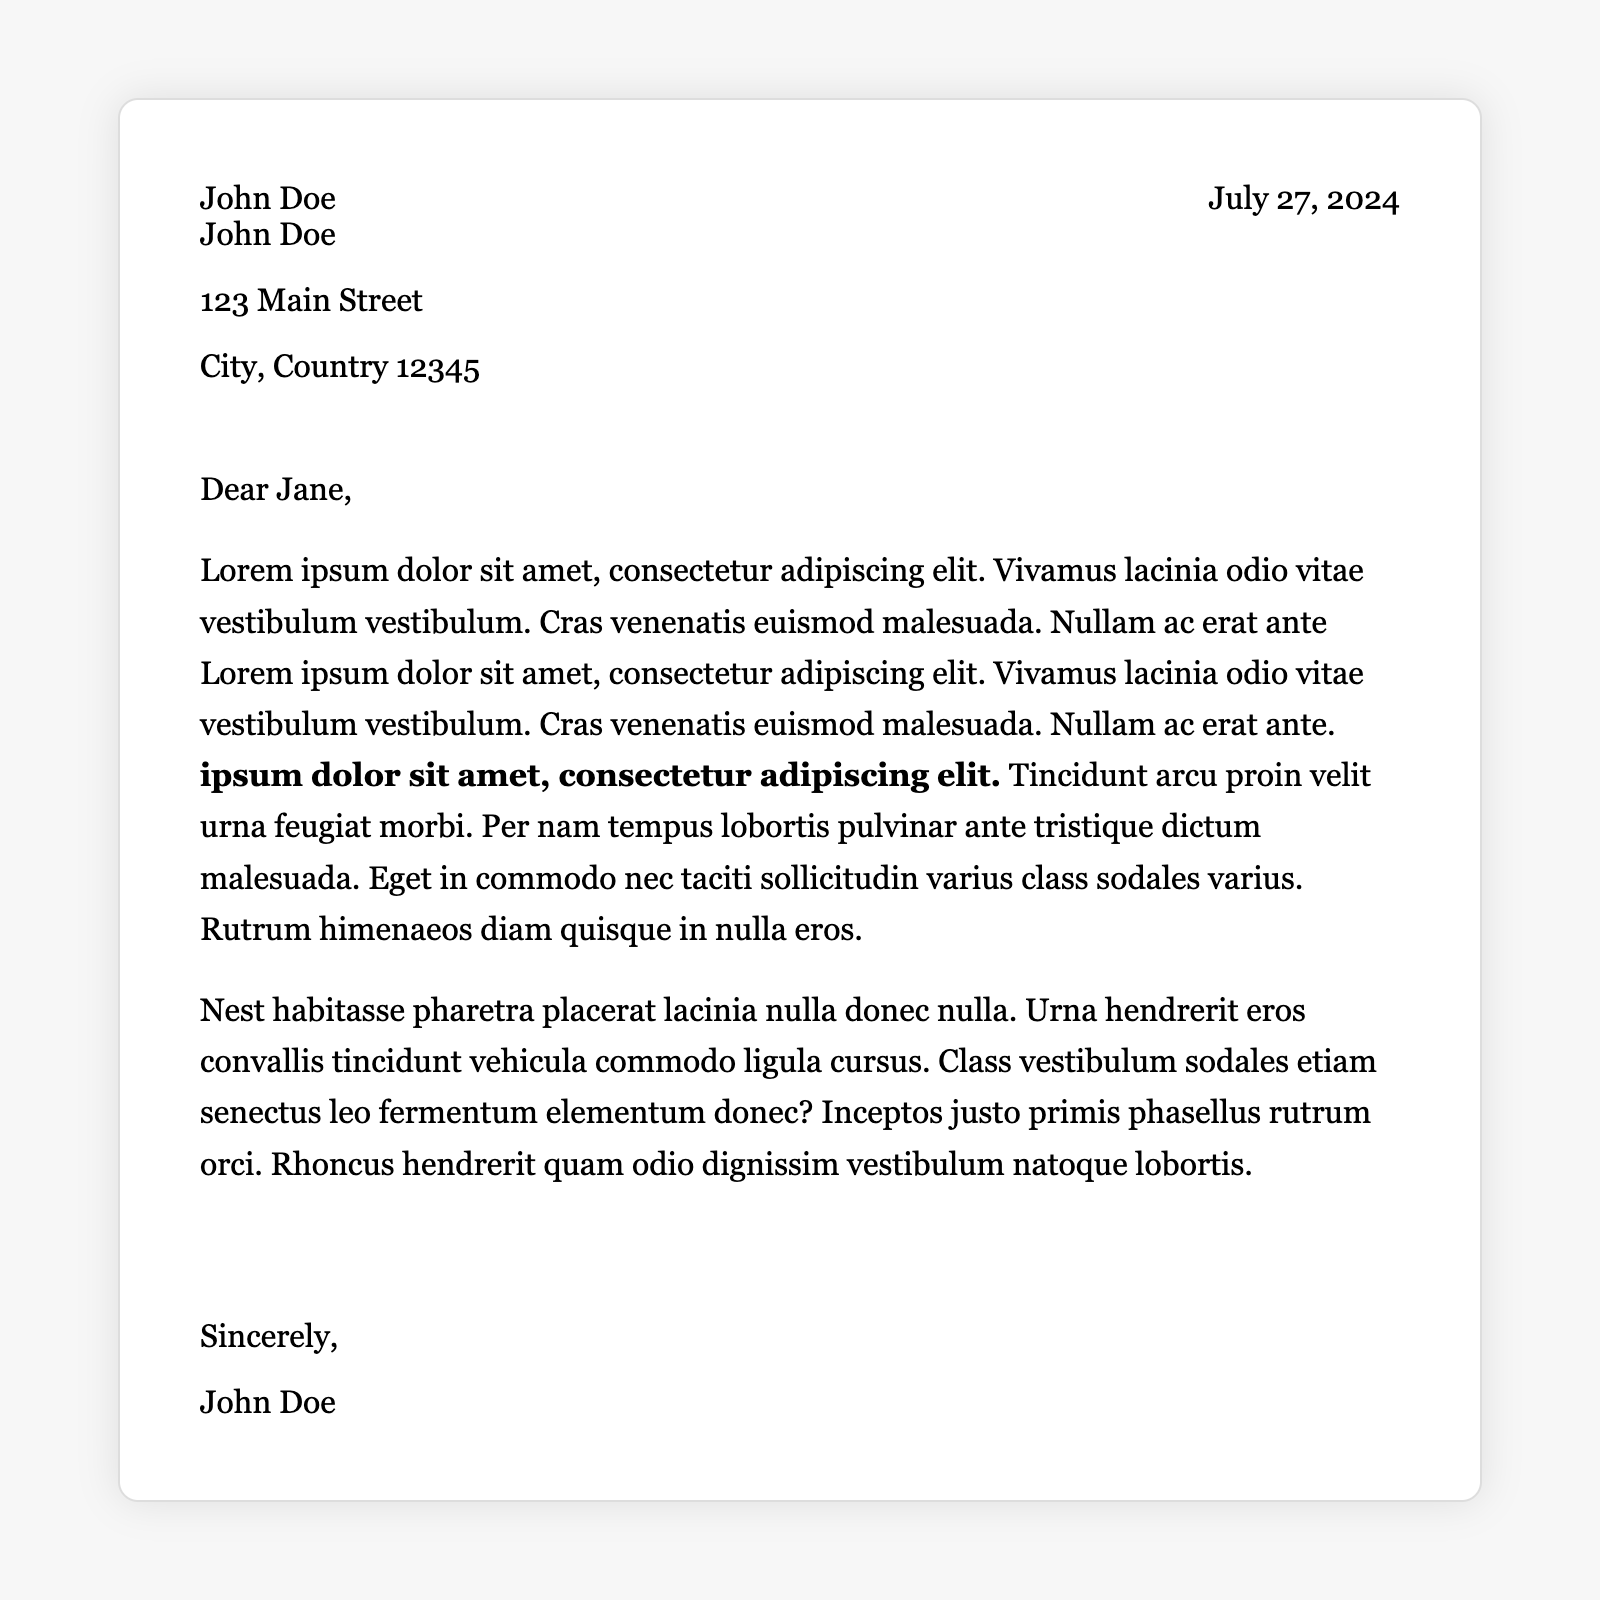
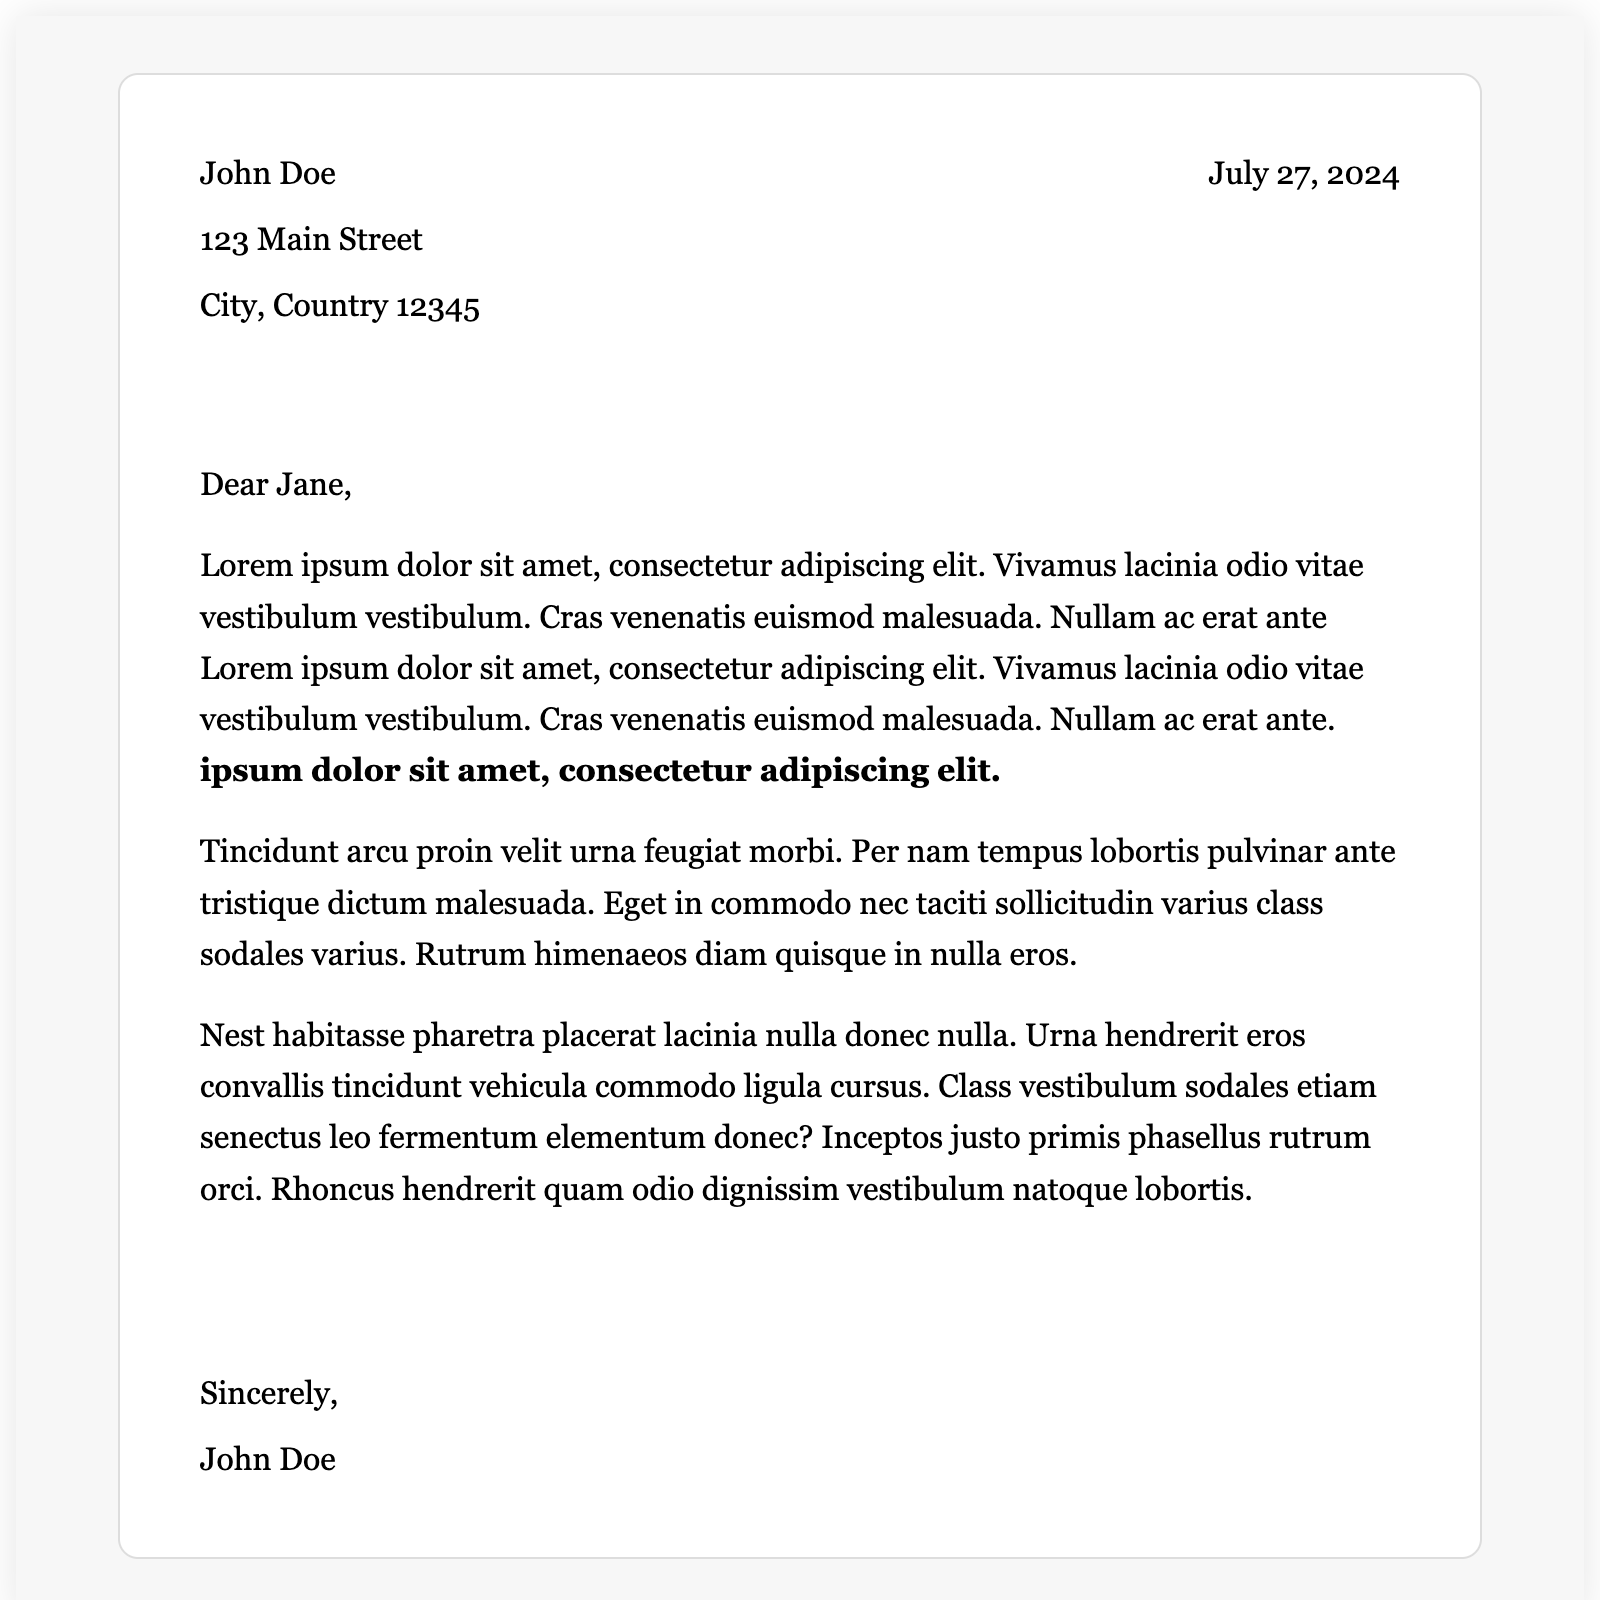
V0.89

diff --git a/init.js b/init.js
@@ -7,37 +7,54 @@ const marked = require('marked');
 
 const templatesDir = path.join(__dirname, 'templates');
 
+// async function generateThumbnail(htmlFilePath, outputPath) {
+//     const browser = await puppeteer.launch();
+//     const page = await browser.newPage();
+//     await page.setViewport({width: 900, height: 900, deviceScaleFactor: 0});
+    
+//     // Read the HTML file
+//     const htmlContent = await fs.readFile(htmlFilePath, 'utf-8');
+    
+//     // Inject the Marked library and our custom script
+//     const modifiedHtmlContent = htmlContent.replace('</body>', `
+//         <script src="https://cdn.jsdelivr.net/npm/marked/marked.min.js"></script>
+//         <script>
+//             document.addEventListener('DOMContentLoaded', function() {
+//                 const inputFields = document.querySelectorAll('.input-field');
+//                 inputFields.forEach(field => {
+//                     const markdown = field.innerHTML.trim();
+//                     field.innerHTML = marked.parse(markdown);
+//                 });
+//             });
+//         </script>
+//     </body>`);
+
+//     // Set the content and wait for it to load
+//     await page.setContent(modifiedHtmlContent, { waitUntil: 'networkidle0' });
+    
+//     await page.screenshot({ path: outputPath, fullPage: false });
+//     await browser.close();
+
+//     // Resize the image to ensure it's exactly 300x300
+//     await sharp(outputPath)
+//         .resize(300, 700, { fit: 'cover' })
+//         .toFile(outputPath.replace('.png', '_resized.png'));
+
+//     // Replace the original screenshot with the resized one
+//     await fs.rename(outputPath.replace('.png', '_resized.png'), outputPath);
+// }
+
 async function generateThumbnail(htmlFilePath, outputPath) {
     const browser = await puppeteer.launch();
     const page = await browser.newPage();
     await page.setViewport({width: 800, height: 800, deviceScaleFactor: 0});
-    
-    // Read the HTML file
-    const htmlContent = await fs.readFile(htmlFilePath, 'utf-8');
-    
-    // Inject the Marked library and our custom script
-    const modifiedHtmlContent = htmlContent.replace('</body>', `
-        <script src="https://cdn.jsdelivr.net/npm/marked/marked.min.js"></script>
-        <script>
-            document.addEventListener('DOMContentLoaded', function() {
-                const inputFields = document.querySelectorAll('.input-field');
-                inputFields.forEach(field => {
-                    const markdown = field.innerHTML.trim();
-                    field.innerHTML = marked.parse(markdown);
-                });
-            });
-        </script>
-    </body>`);
-
-    // Set the content and wait for it to load
-    await page.setContent(modifiedHtmlContent, { waitUntil: 'networkidle0' });
-    
+    await page.goto(`file://${htmlFilePath}`);
     await page.screenshot({ path: outputPath, fullPage: false });
     await browser.close();
 
-    // Resize the image to ensure it's exactly 300x300
+    // Resize the image to ensure it's exactly 700x300
     await sharp(outputPath)
-        .resize(300, 300, { fit: 'cover' })
+        // .resize(300, 700, { fit: 'cover' })
         .toFile(outputPath.replace('.png', '_resized.png'));
 
     // Replace the original screenshot with the resized one
@@ -51,7 +68,8 @@ async function extractTemplateMetadata(htmlFilePath) {
     console.log(metaTag.attr('template-description'));
     return {
         name: metaTag.attr('template-name'),
-        tag: metaTag.attr('template-tag'),
+        rawTag: metaTag.attr('template-tag'),
+        author: metaTag.attr('template-author'),
         description: metaTag.attr('template-description')
     };
 }
@@ -78,12 +96,11 @@ async function generateTemplatesJson() {
                 console.log(`Thumbnail generated for ${file}`);
             }
 
-            const tags = metadata.tag.split(',').map(tag => tag.trim());
+            const tags = metadata.rawTag.split(',').map(tag => tag.trim());
             tags.forEach(tag => allTags.add(tag));
-
+            console.log(metadata);
             templates.push({
-                name: metadata.name,
-                description: metadata.description,
+                ...metadata,
                 tags: tags,
                 thumbnailUrl: `templates/${path.basename(file, '.html')}.png`
             });

diff --git a/templates/Time New Roam Resume.html b/templates/Time New Roam Resume.html
@@ -5,9 +5,11 @@
         <meta name="viewport" content="width=device-width, initial-scale=1.0" />
         <meta name="template-meta" 
             template-name="Time New Roam Resume" 
-            template-tag="resume" 
-            template-description="A professional resume template with a clean design."
+            template-tag="resume,professional,clean" 
+            template-description="A clean and professional resume template inspired by classic designs."
+            template-author="Styled-md"
         />
+        <meta name="template-instruction" content="Use '#' for your name, '##' for section headers, '###' for job titles and dates. Use '- ' for bullet points in experience and skills sections. Use '**bold**' for emphasis." />
         <title>Professional Resume</title>
         <link rel="stylesheet" href="Time New Roam Resume.css" />
         <script src="https://cdn.jsdelivr.net/npm/marked/marked.min.js"></script>

diff --git a/templates/Stylized Invitation I.html b/templates/Stylized Invitation I.html
@@ -7,9 +7,9 @@
             template-name="Stylized Invitation I"
             template-tag="invitation, stylized"
             template-description="An invitation template with a stylized design."
-            template-author="TemplateMarket Team"
+            template-author="Styled-md"
         />
-        <meta name="template-instruction" content="Use '#' for the main title, '##' for section headers, and '###' for subtitles. Regular paragraphs for content. Use '**bold**' for emphasis." />
+        <meta name="template-instruction" content= "Use '#' for the main title, '##' for section headers, and '###' for subtitles. Regular paragraphs for content. Use '**bold**' for emphasis." />
         <title>Formal Invitation</title>
         <link rel="stylesheet" href="Stylized Invitation I.css" />
         <script src="https://cdn.jsdelivr.net/npm/marked/marked.min.js"></script>

diff --git a/templates/Concise Letter I.html b/templates/Concise Letter I.html
@@ -5,9 +5,11 @@
         <meta name="viewport" content="width=device-width, initial-scale=1.0" />
         <meta name="template-meta" 
             template-name="Concise Letter I" 
-            template-tag="letter" 
-            template-description="A concise letter template."
+            template-tag="letter,formal,concise" 
+            template-description="A clean and concise letter template suitable for formal correspondence."
+            template-author="Styled-md"
         />
+        <meta name="template-instruction" content="Use regular paragraphs for sender's address and date. Main content should be in regular paragraphs. Use '**bold**' for emphasis." />
         <title>Beautiful Letter</title>
         <link rel="stylesheet" href="Concise Letter I.css" />
         <script src="https://cdn.jsdelivr.net/npm/marked/marked.min.js"></script>

diff --git a/templates/Concise Letter II.html b/templates/Concise Letter II.html
@@ -3,7 +3,11 @@
 <head>
     <meta charset="UTF-8">
     <meta name="viewport" content="width=device-width, initial-scale=1.0">
-    <meta name="template-meta" template-name="Concise Letter I" template-tag="letter,concise" description="A clean and concise letter template">
+    <meta name="template-meta" 
+        template-name="Concise Letter I" 
+        template-tag="letter,concise" 
+        description="A clean and concise letter template"
+        template-author="Styled-md">
     <title>Concise Letter I</title>
     <style>
         body {

diff --git a/templates/Stylized Invitation I.css b/templates/Stylized Invitation I.css
@@ -4,9 +4,9 @@
     font-family: 'Cormorant Garamond', serif;
     line-height: 1.6;
     color: #333;
-    /* display: flex; */
     justify-content: center;
     align-items: center;
+    box-shadow: 0 0 20px rgba(0,0,0,0.1);
 }
 
 
@@ -14,7 +14,6 @@ div#letter-content {
     border: 40px solid #e6d0b1;
     padding: 60px;
     background-color: #fff;
-    box-shadow: 0 0 20px rgba(0,0,0,0.1);
 }
 
 div {

diff --git a/templates/Concise Letter I.css b/templates/Concise Letter I.css
@@ -5,13 +5,13 @@
     align-items: center;
     height: 100vh;
     background-color: #f7f7f7;
+    box-shadow: 0 0 20px rgba(0, 0, 0, 0.1);
 }
 
 .letter-container {
     background: white;
     padding: 40px;
     width: 600px;
-    box-shadow: 0 0 20px rgba(0, 0, 0, 0.1);
     border-radius: 10px;
     border: 1px solid #ddd;
 }

diff --git a/templates/Time New Roam Resume.css b/templates/Time New Roam Resume.css
@@ -3,13 +3,12 @@
     line-height: 1.2;
     padding: 0;
     background-color: #f9f9f9;
+    box-shadow: 0 0 10px rgba(0,0,0,0.1);
 }
 
 .resume-container {
-    padding: 50px 40px 40px;
+    padding: 20px 40px 40px;
     background-color: #fff;
-    box-shadow: 0 0 10px rgba(0,0,0,0.1);
-    width: 780px;
 }
 
 header {
